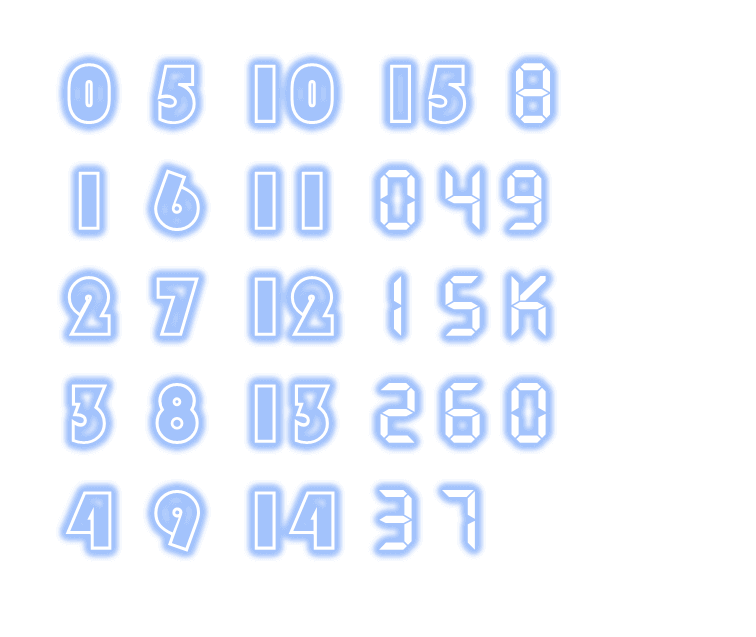
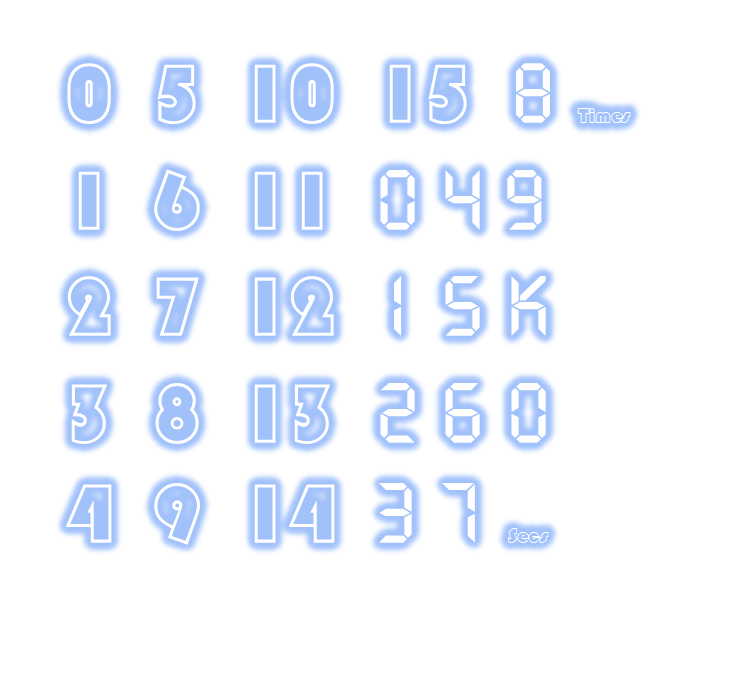
完成倒计时和次数的样式改动

diff --git a/css/main.css b/css/main.css
@@ -285,36 +285,36 @@ img {
 
 #timerNumber {
   position: absolute;
-  top: 61px;
-  left: 39px;
-  z-index: 2;
-  width: 120px;
-  height: 80px;
+  background-image: url('../imgs/number.png');
+  border: 0;
   padding: 0;
   overflow: hidden;
-  border: 0;
-  background-image: url("../imgs/number.png");
+  width: 120px;
+  height: 80px;
   background-position: -367px -50px;
+  left: 39px;
+  top: 50px;
+  z-index: 2;
 }
 
 #leftNumber {
   position: absolute;
-  top: 39px;
-  left: 37px;
   width: 50px;
   height: 80px;
-  background-image: url("../imgs/number.png");
+  background-image: url('../imgs/number.png');
   background-position: -375px -160px;
+  left: 35px;
+  top: 31px;
 }
 
 #rightNumber {
   position: absolute;
-  top: 39px;
-  left: 84px;
   width: 50px;
   height: 80px;
-  background-image: url("../imgs/number.png");
+  background-image: url('../imgs/number.png');
   background-position: -375px -160px;
+  left: 84px;
+  top: 31px;
 }
 
 .mask-modal {
@@ -364,4 +364,24 @@ img {
 
 #list .listme {
   color: #3672d4;
+}
+
+#timeTip {
+  width: 80px;
+  height: 40px;
+  background-image: url('../imgs/number.png');
+  position: absolute;
+  background-position: -500px -515px;
+  left: 69px;
+  top: 121px;
+}
+
+#countTip {
+  width: 80px;
+  height: 40px;
+  background-image: url('../imgs/number.png');
+  position: absolute;
+  background-position: -565px -95px;
+  left: 43px;
+  top: 103px;
 }

diff --git a/main.html b/main.html
@@ -23,11 +23,13 @@
         <canvas id="timerCanvas" width="220" height="220"></canvas>
         <img id="innerCircle" src="imgs/innerCircle2.png" width="130" height="130">
         <div id="timerNumber"></div>
+        <div id="timeTip"></div>
       </div>
       <div class="counter">
         <img id="swing" src="imgs/swing.png">
         <div id="leftNumber"></div>
         <div id="rightNumber"></div>
+        <div id="countTip"></div>
       </div>
     </div>
     <!-- 击打页面效果 -->
